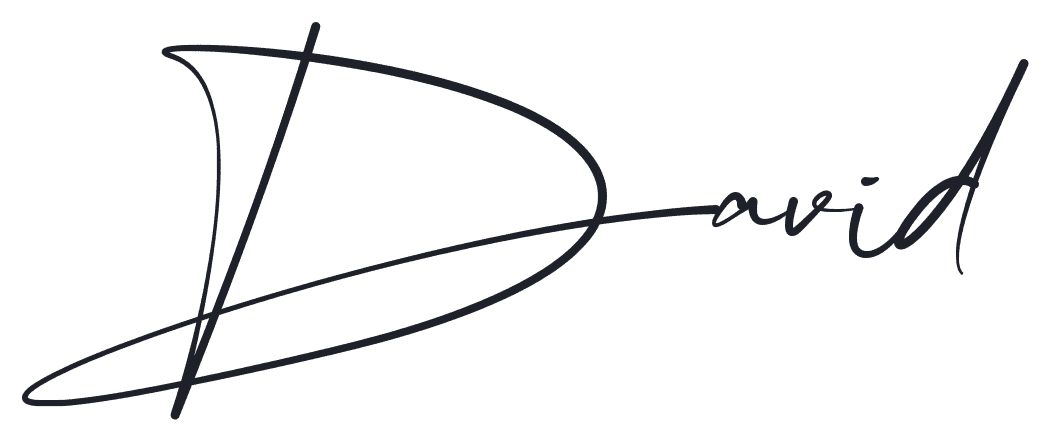
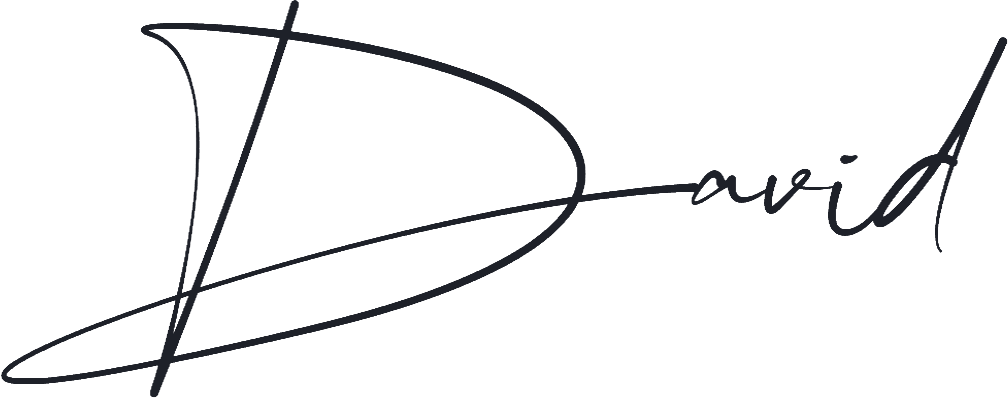
image

Changed region(s): [[0.0, 0.0, 1.0, 0.995]]

diff --git a/index.html b/index.html
@@ -168,17 +168,23 @@
     min-height: 100vh;
     position: relative; overflow: hidden;
   }
-  .video-section video {
+  .vid-layer {
     position: absolute; inset: 0;
     width: 100%; height: 100%;
     object-fit: cover;
     filter: grayscale(100%);
+    opacity: 0;
+    transition: opacity 1.5s ease;
+  }
+  .vid-layer.active {
+    opacity: 1;
   }
   .video-section::after {
     content: '';
     position: absolute; inset: 0;
     background: rgba(10,10,10,0.4);
     pointer-events: none;
+    z-index: 1;
   }
 
   /* ── DIVIDER ── */
@@ -620,8 +626,11 @@
 
 <!-- VIDEO SECTION -->
 <section class="video-section">
-  <video id="bgVideo" autoplay muted loop playsinline>
+  <video id="bgVideo1" autoplay muted loop playsinline class="vid-layer active">
     <source src="https://raw.githubusercontent.com/aherndavid/citiit/main/assets/IMG_0065.MOV" type="video/mp4">
+  </video>
+  <video id="bgVideo2" muted loop playsinline class="vid-layer">
+    <source src="https://raw.githubusercontent.com/aherndavid/citiit/main/assets/tube.mov" type="video/mp4">
   </video>
 </section>
 
@@ -916,12 +925,20 @@
 </footer>
 
 <script>
-  // Video half-speed toggle every 20 seconds
-  const bgVideo = document.getElementById('bgVideo');
-  if (bgVideo) {
-    bgVideo.playbackRate = 1.0;
+  // Video crossfade rotation every 20 seconds
+  const vid1 = document.getElementById('bgVideo1');
+  const vid2 = document.getElementById('bgVideo2');
+  if (vid1 && vid2) {
+    vid2.load();
+    let current = vid1;
+    let next = vid2;
     setInterval(() => {
-      bgVideo.playbackRate = bgVideo.playbackRate === 1.0 ? 0.5 : 1.0;
+      next.play();
+      current.classList.remove('active');
+      next.classList.add('active');
+      const tmp = current;
+      current = next;
+      next = tmp;
     }, 20000);
   }
 